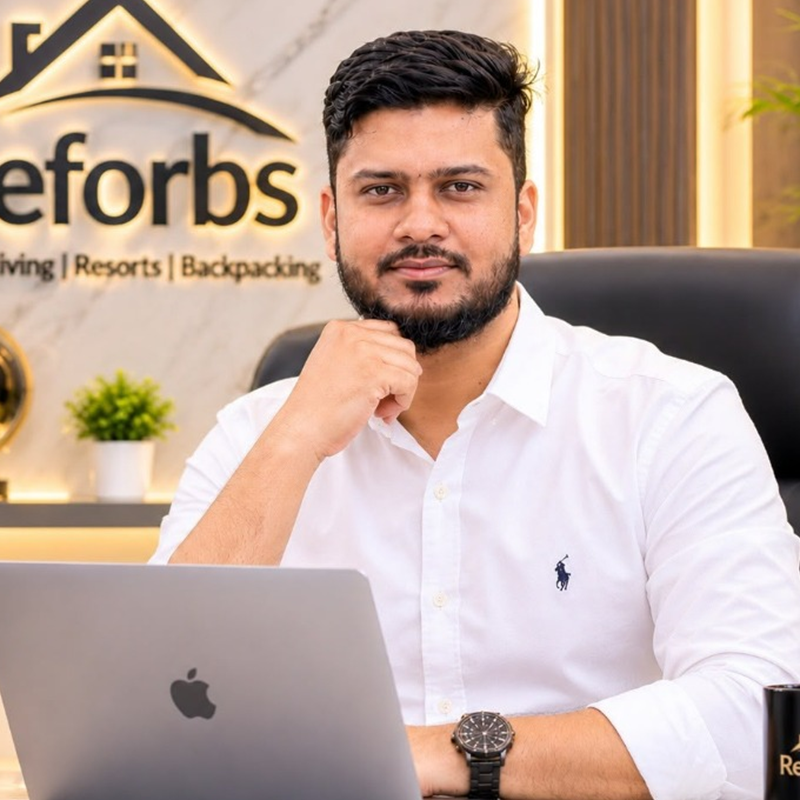
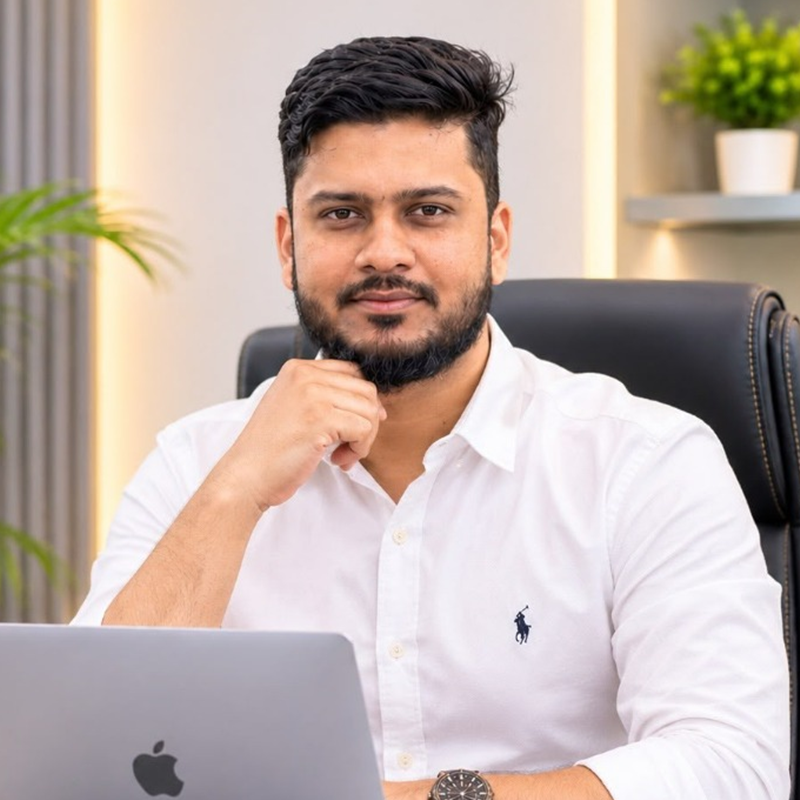
feat(partner): replace founder portrait with perfectly centered and aligned crop

diff --git a/src/app/partner-with-us/page.tsx b/src/app/partner-with-us/page.tsx
@@ -581,7 +581,7 @@ export default function PartnerWithUsPage() {
             <div className="rounded-3xl bg-gradient-to-b from-[#006E6E] to-[#268672] text-white border border-white/25 shadow-xl p-6 sm:p-8 flex flex-col items-center text-center space-y-5 hover:border-[#FFDE59]/60 hover:shadow-2xl transition-all group">
               <div className="relative w-48 h-48 sm:w-56 sm:h-56 rounded-full overflow-hidden bg-white border-4 border-[#FFDE59] shadow-2xl ring-4 ring-white/15 group-hover:scale-105 transition-transform duration-300 shrink-0">
                 <Image
-                  src="/images/partner/moinkhan-pathan-founder.png"
+                  src="/images/partner/moinkhan-pathan-v3.png"
                   alt="Moinkhan Y Pathan - Founder, Reforbs"
                   fill
                   className="object-cover"
